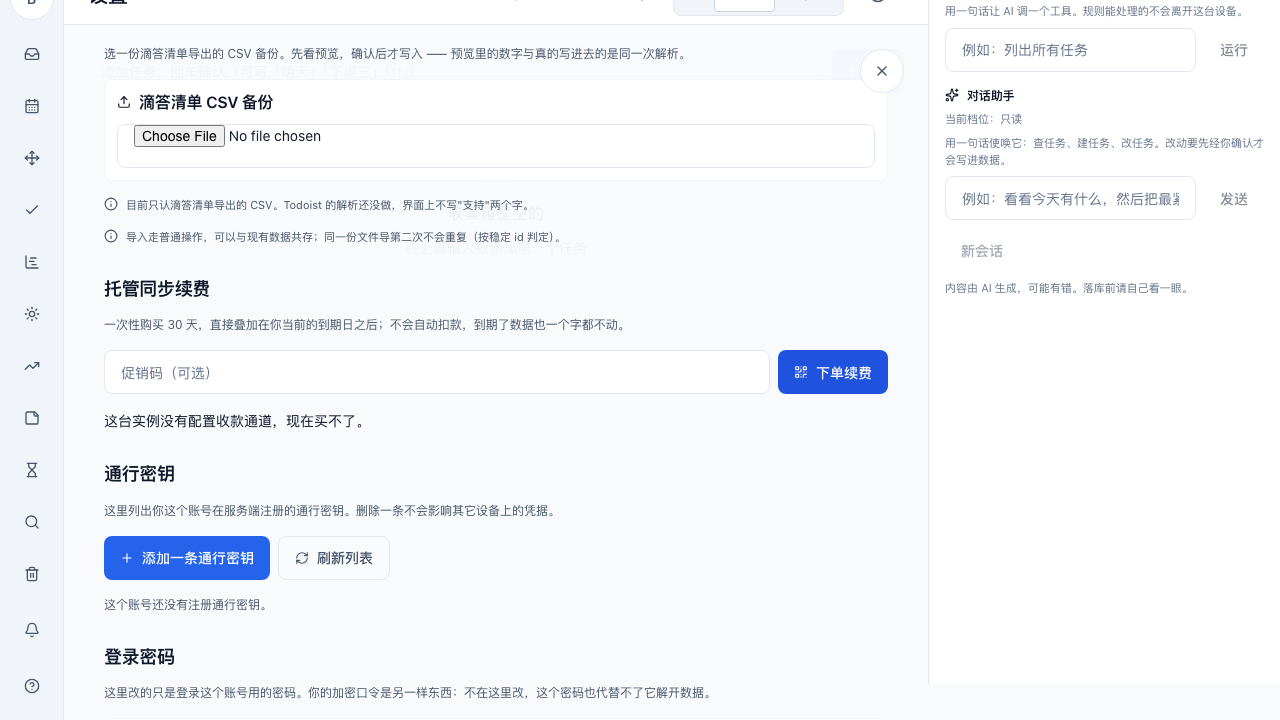
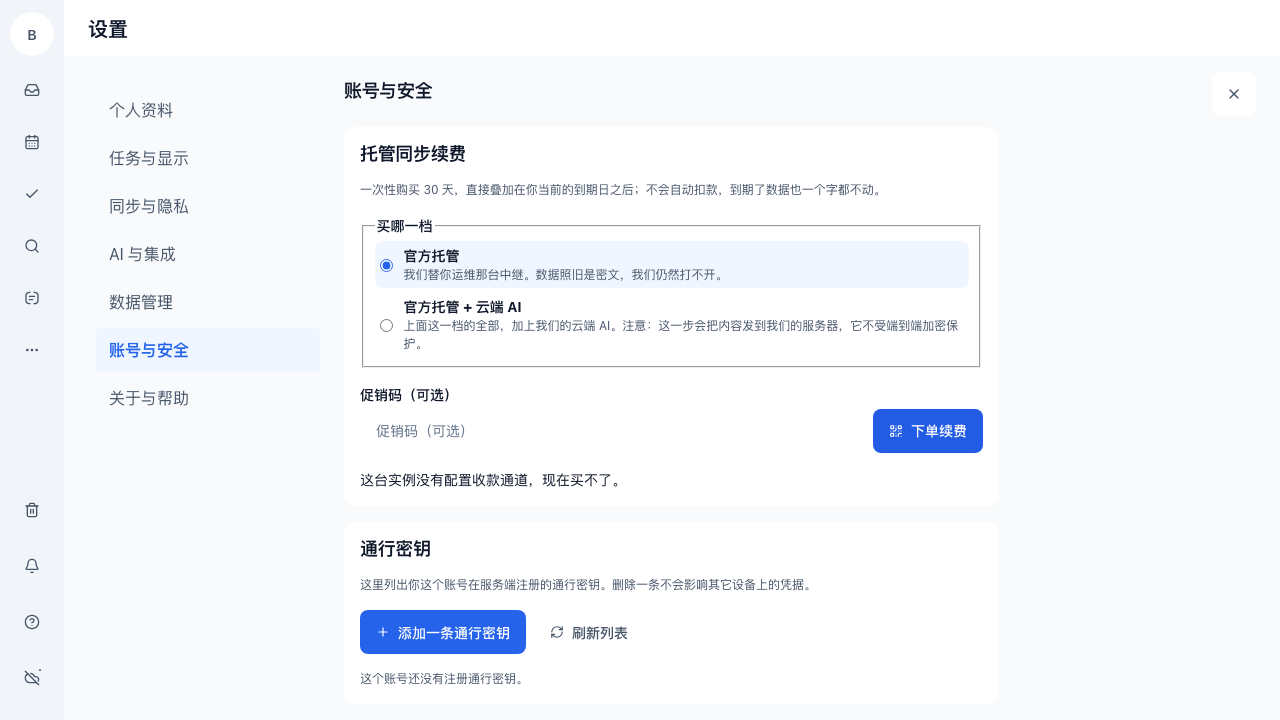
docs(¥12 档·取证与台账): 续费那五张图搬进仓（仓里跟踪的三枚原本是 10-05 没有档位的旧代），并登记一处不属于本线的整链挡路门红 B244

diff --git a/BLOCKED.md b/BLOCKED.md
@@ -11728,3 +11728,5 @@ B216 那一行进库之后，本线在新隔离载具 `.worktrees/inb-t10`（`gi
       ⚠ 分母边界要写清：`git ls-tree -r -l HEAD` 里 `apps/web/evidence` **仍占 230.9 MB**（全仓 HEAD 跟踪文件合计 761.7 MB）——那是**当前还在用的取证件**，本预案**不动它**；动它才是真的丢东西。③ **预案（未获授权，一行都不执行）**：a) 先 `git clone --mirror` 出一份**排演副本**并留作回退点；b) 在副本上 `git filter-repo --path .pnpm-store --path research/standalone/.npm-cache --invert-paths`（工具**本机未装**：`git-filter-repo` 不在 PATH、python 模块也没有 ⇒ 落地前要先装，这是一次独立决定）；c) 校验**当前那一屏没变**：改写前后 `git rev-parse HEAD^{tree}` 必须逐字相同（两枚被剔前缀在 HEAD 里都不存在 ⇒ 这一点是**可证的**，不是祈祷），并 `git diff --stat <旧> <新>` 只允许出现被剔路径；d) 在副本上重跑 `git bundle create` 量出真实体积（本追记的 317.5 MB 是**按对象磁盘尺寸直接相减的估算**，delta 重算后会有偏差）；e) 才谈 `--force-with-lease` 推两枚远端。🔴 **爆炸半径**：双端强推会重写所有下游克隆的 `main`（含并行会话那几棵检出，它们必须重新克隆或硬重置），而**已应用迁移与 schema 一行都不碰** —— 这一条按仓规**只能负责人拍**，本会话不自决。④ **同趟顺手否证的第二条便宜路**：`git ls-remote gitee` 只回 `HEAD` + `refs/heads/main` **两行** ⇒ gitee 上**没有**陈旧分支或标签在占体积，"删远端废弃 ref"这条不存在。⑤ 本条只动 `BLOCKED.md` 一枚（纯追加：现量 `git diff --numstat -- BLOCKED.md` 删列 **0**）；判卷口径零处、AC 已勾数现量 **0**。
 
 🔴 **B243 追记二（2026-10-21 01:0x，本会话 · 这枚配额会咬下一位：`main` 的**上游配置指向 gitee**，所以不带 refspec 的 `git push` 现在必然失败）**：写前先跑 `date`（本机 01:07）。① **现量**：`git for-each-ref --format='%(refname:short) → %(upstream:short) %(upstream:track)' refs/heads/main` ⇒ **`main → gitee/main [ahead 5]`**；`git config --get push.default` 与 `git config --get branch.main.pushRemote` 都回**空** ⇒ `git push` 不带参数就是推 gitee。② **后果要说白**：下一位在这里敲 `git push` 会拿到 `[remote rejected] … pre-receive hook declined`，而那句钩子话术**没写"体积"**（体积是上一行 `Repo size: … exceeds quota`），只看最后一行会**误判成"分支被保护了"或"网络/权限坏了"**，最坏的绕法是 `--force` —— 那既治不了体积（配额是**服务端算总量**，不是非快进），又会把两枚远端的历史一起重写。⇒ **规矩**：这一格失败先读 `remote:` 那几行的**全文**，别按最后一行归因。③ **正确的命令形状（本会话就是这么推上去的）**：显式点名远端与 refspec —— `git push origin refs/heads/main:refs/heads/main`（过），`git push gitee refs/heads/main:refs/heads/main`（被配额拒）。④ **我没有顺手改的那两样，以及为什么**：把上游改成 `origin/main`、或设 `branch.main.pushRemote=origin`，都能让 `git push` 恢复正常，但**改 git config 不在本会话被授权的范围里**（仓规：不擅自改配置），而且它会改变**别人在这棵树上的推送目的地** —— 那正是"可见范围"这一格。要改只需一句授权，命令现成：`git config branch.main.pushRemote origin`（回退：`git config --unset branch.main.pushRemote`）。⑤ 本条只动 `BLOCKED.md` 一枚（纯追加：现量 `git diff --numstat -- BLOCKED.md` 删列 **0**）；判卷口径零处、git config 零处、AC 已勾数现量 **0**。
+
+🟡 **B244（2026-10-21 10:3x，本会话 · `check:image-license` 在干净检出上就是红的，红点不在本线；顺带量出这把尺里有一档对**顺序**敏感，会指一辆不存在的东西）**：写前先跑 `date`（本机 10:38）。① **原文证据**（`pnpm check:image-license`，`rc=1`，首行逐字「镜像依赖快照已经不代表当下的声明（3 处失真）」）：三行分别是 `server/package.json 里**能改变那棵树**的那几档 … 变了`、`@heyta/ 工作区包的清单 变了`、`server/package-lock.json（镜像那棵树的钉子） 变了`。② **它挡的是所有人**：这道门在 `pnpm check` 那条大链里，位置现量（不要把步数抄进文档）`node -e "const s=require('./package.json').scripts.check.split('&&');console.log(s.length, s.findIndex(x=>x.includes('check:image-license')))"` ⇒ 任何线跑整链都会停在它上面。③ **归因（分母是逐枚输入取的，不是按大类取的）**：快照 `server/image-npm-tree.json` 最后一次被写是 `d0bd83b36`（10-17 22:34，自托管线那笔「补第四枚 tgz」）；此后动过这三枚输入的提交现量 `git log --since=2026-10-18 --format='%h %ad %s' --date=format:'%m-%d' -- server/image-npm-tree.json server/package.json server/package-lock.json 'packages/*/package.json'` ⇒ **7 枚，全部是中央认证线**（`7281d1388` 13:08 起，到 `5d58ed332` 10-20 07:43）；本线 10-21 那几笔（`c7fb1a64f`/`b0d13e34d` 之间那一族）对这三枚输入的命中数 **0**（同一趟 `git show --stat $c -- <那三枚>` 逐枚回空）。④ **不是别人在飞的脏件造成的**：`git status --porcelain -- server/package.json server/package-lock.json server/image-npm-tree.json` 回**空** ⇒ 干净检出同样红。⑤ **本线为什么不修，按门自己写的分岔走**：它的提示把修法分两种情形 —— ①「只有 `server/package-lock.json` 变了」⇒ 直接重跑 `node research/tools/gen-image-npm-tree.mjs`（离线，读的就是这把锁）；②「`server/package.json` / 三枚本地包 / Dockerfile 的装法变了」⇒ **锁本身过期了，重跑生成器不会造出新锁**，必须先跑一次 `pnpm verify:selfhost-stack`、从镜像里取 `/app/package-lock.json` 落成提交物。本次命中的是 **②**（`serverInstallInputSha256` 这一档也变了，而那档走 `research/tools/image-install-shape.mjs:219` 的 `.sort()`，对顺序免疫 ⇒ 它是**内容**真变了）。⇒ 便宜的这条路被门自己否证；剩下那条要 docker build、产的是**自托管线的提交物**，而且此刻别人正在写这棵树 —— 由本线来重生成镜像锁＝把他们的构建输入写进我的提交，越界。**登记，不动。**⑥ 🔴 **顺带一枚探针缺陷（归自托管线，本线不改）**：那三行里「`@heyta/ 工作区包的清单 变了`」这行**指的不是任何真实失真**——现量：快照 `[inbound-core, domain, shared-schema, sync-core]`，当下 `[domain, inbound-core, shared-schema, sync-core]`（复现：`node -e` 取 `image-npm-tree.json` 的 `inputs.packedWorkspaceDeps` 与 `server/package.json` 里 `@heyta/` 前缀的 `Object.keys(dependencies)` 对照）⇒ **同一集合，只是顺序不同**，顺序在 `7281d1388` 换的。成因有两处，缺一不红：`gen-image-npm-tree.mjs:153` 的 `packedNames` 直接取 `Object.keys(deps)`（**不排序**），而 `:240` 的比较是 `JSON.stringify(got[key]) !== JSON.stringify(INPUTS_BASE[key])`（**对数组顺序敏感**）。⚠ 同一把尺里另一档免疫顺序（⑤ 那句 `.sort()`）⇒ **两档的敏感性不一致**，而这行的文案写的是「清单变了」，读的人会去找第 5 枚 `@heyta/` 包，它不存在。这一档确实有活职能（**剔包**只有它能抓到：逐包哈希那一圈只遍历当下存在的 `rel`，少一枚不会红），所以修法不是删断言，是**两侧排序后再比**（`packedPackageJsonSha256` 那圈照旧盖内容）。⑦ 归谁：**自托管线**（②那条 rebuild 与那枚顺序敏感比较）；本线只在交接书里把「整链现在停在 `check:image-license`」写清，免得下一位以为是自己造的。⑧ 本条只动 `BLOCKED.md` 一枚（纯追加：现量 `git diff --numstat -- BLOCKED.md` 删列 **0**）；判卷口径零处、镜像输入零处、AC 已勾数现量 **0**。

diff --git a/PROGRESS.md b/PROGRESS.md
@@ -7132,3 +7132,12 @@ python3 research/tools/verify-inbound-check-chain.py --logs <dir> --from 100 --t
     ③ 现量：两枚台架 `pnpm check:checkout-tier-gates`／`check:mobile-renew-shape` 均 **rc=0**（5 臂 + 4 臂各被具名用例抓到），改前后 `stat -f "%m"` 两枚被碰的文件**逐字相同**，`git status --short server/src apps/mobile/src` 为空。分母现量：`grep -c utimesSync scripts/mutate-*.mjs` ⇒ 本线两枚各 4，同族的 `mutate-calendar-event-source.mjs`／`mutate-op-log-semantics.mjs` 各 **0**（前者也动 `apps/mobile/src/screens/CalendarScreen.tsx`）—— 那一半归那两条线补一行，本线**不代改**（登记在 #513 ⑷ 而不是顺手替别人提交）。
     ④ 追加环境陷阱 **#513**（"还原字节 ≠ 还原状态"，含 (b) 那条毫秒/纳秒的坑），号段索引那一行由 `511–512` 扩为 `511–513`。
     ⑤ 本条动 `scripts/mutate-checkout-tier-gates.mjs`、`scripts/mutate-mobile-renew-shape.mjs`、`docs/reference/environment-traps.md`、`docs/agents/environment-traps-index.md`、`PROGRESS.md` 五枚。同树现量：`check:docs`／`check:md-tables`／`check:doc-citations`／`check:gate-wiring` **rc=0**。AC 已勾数现量 **0**（`grep -rn "^- \[x\]" docs/plans/inbound-automation*.md | wc -l`）。
+
+161. 🟢 **10-21 10:2x–10:4x（续费那五张图搬进仓，顺手量出一处"按文件名会读到旧产物"的错位与一处不属于本线的门红）**（写前先跑 `date`，本机 10:41）
+    ① 🔴 **错位**：套件的固定落点 `e2e/test-results/` 被 `.gitignore` 里 `test-results/` 那条挡着 ⇒ **干净检出里根本没有本轮的图**；而仓里跟踪的那三枚同名图是 **10-05 那一代**（写它们的提交 `846862ad5`，blob `ea7cfb923f51…`），屏上**还没有档位选择**。⇒ 谁按文件名去读，读到的是旧产物而不自知。现在三枚换代、两枚新增（`renew-panel-tiers.png`／`renew-panel-downgrade.png`），五枚与 `e2e/test-results/` 的原件**逐字节相同**（现量：两侧各跑 `shasum -a256 renew-panel-*.png` 对照；本枚 `renew-panel-order.png` 盘上哈希 `04707ef73c24…`）。
+    ② **人眼复核（§6.2 规定一）新增那两枚**：`-tiers` 里两档 radio 都在、选中的是「官方托管 + 云端 AI」，屏上金额是服务端回来的「应付金额 4.00 CNY」加支付链接；`-downgrade` 里选中的是「官方托管」，屏上是拒降档那句「这一档不包含你当前这一档的全部能力，服务端没有下单 —— 先让当前这一档到期，或者继续按它续费。」⇒ 闸门 ②′ 的文案**第一次有图**（此前只有断言）。
+    ③ 交接书 §10.2 加「那五张截图在不在仓里」那一格，§10.3 加第 7、8 条。第 7 条把"为什么不能拿手边那张旧图交差"钉成现量：`grep -c "renew-tier-hostedAi" apps/mobile/ios/build/Build/Products/Release-iphonesimulator/Heyta.app/main.jsbundle` 回 **0** ⇒ 那枚 10-20 的包里根本没有档位选择，用它拍图＝拿旧产物冒充当前产物。**移动截图腿仍欠**（要 `pnpm build:ios` + 模拟器 + :3000 TEST_MODE 服务端，且此刻同树有别线在写，本条不抢）。
+    ④ 第 8 条＝量到但**归 UX 线、本线不代改**的一类：未同意出境时被本机闸门拦下的读请求，界面上写成红字「没能加载通行密钥列表。」，而真实原因是**根本没发那个请求**。证据是一对只差一个变量的图（`-no-channel` 那块是正常空态「这个账号还没有注册通行密钥。」／`-no-consent` 同一块是那句红字）。同类键名与枚举命令写在交接书里 —— 报修时按**一类**报，别只修通行密钥那一处。
+    ⑤ 🔴 一处**不是本线造的**门红，登记为 **B244** 而不是顺手修：`pnpm check:image-license` **rc=1**，且**干净检出同样红**（三枚输入 `git status --porcelain -- server/package.json server/package-lock.json server/image-npm-tree.json` 回空）。归因分母逐枚取 ⇒ 10-18 以来动过那三枚输入的 **7 枚提交全在中央认证线**（`7281d1388`…`5d58ed332`），本线命中 **0**。便宜那条路（重跑生成器）被门自己写的分岔否证：本次命中的是情形②（`serverInstallInputSha256` 也变了），要 `pnpm verify:selfhost-stack` 从镜像里取锁 ⇒ 那是**别线的提交物**，不替他们生成。顺带量出这把尺有一档对**顺序**敏感：「工作区包的清单 变了」那行讲的是同一集合换了顺序，读它会去找不存在的第 5 枚 `@heyta/` 包（细节与修法在 B244 ⑥）。
+    ⑥ 现量读数：`check:docs`／`check:md-tables`／`check:doc-citations`／`check:gate-wiring` 四道**串行**跑，各 **rc=0**（`for g in …; do pnpm "$g"; done` 逐条取 rc）。
+    ⑦ 本条动 `apps/web/evidence/` 五枚 png、`docs/plans/subscription-handoff.md`、`BLOCKED.md`、`PROGRESS.md`。同树他人会话在飞的脏件（根 `package.json`、`docs/agents/commands.md`、`apps/web/src/**`、`packages/i18n/**`、`e2e/tests/collab-journey.spec.ts`、`scripts/check-collab-carrier.mjs` 等）**一枚不 stage**，提交带命名 pathspec。AC 已勾数现量 **0**（`grep -rn "^- \[x\]" docs/plans/inbound-automation*.md | wc -l`）。

diff --git a/docs/plans/subscription-handoff.md b/docs/plans/subscription-handoff.md
@@ -194,6 +194,7 @@ AI 文件 import `@heyta/i18n`，所以 **`packages/i18n` 必须同一个提交*
 | 真浏览器判据（**只有 web 那一枚**） | ✅ `e2e/tests/renew-panel.spec.ts` 五条（档位、换档清旧单、拒降档、503、只用本机零请求），且每条都按 §6.2 规定一第 3 条抓 `console`／`pageerror`／非 2xx | `cd e2e && npx playwright test tests/renew-panel.spec.ts` |
 | 🔴 **移动端那枚档位选择的证据到哪一步** | ⚠ **只有形状判据，没有截图腿**。`apps/mobile/tests/renew-entry.spec.ts` 钉的是源码形状（档位取自 `CHECKOUT_TIERS.map`、不写死 priceId、屏上不写 `¥`/`$` 金额、同意闸门排在下单之前），行为那一半在 `packages/app-host/tests/checkout.spec.ts`。形状断言自己的牙已经落成件：`pnpm check:mobile-renew-shape` 四条臂各注入一次真实坏法。所以「移动壳有档位选择」这句话现在**只到"接线在 + 判据能红"，不到"画出来了"** —— §6.2 规定一要的图一张都没有（现量分母：`find . -iname "*renew*" -not -path "*/node_modules/*"` 里**全部**是 web 侧的 png） | `pnpm check:mobile-renew-shape`；`pnpm --filter @heyta/mobile test tests/renew-entry.spec.ts` |
 | 两道闸门有没有**能复跑的反臂** | ✅ `scripts/mutate-checkout-tier-gates.mjs`：逐臂把 `checkout.routes.ts` 改坏，要求具名用例变红；已进 `pnpm check` 链（不进链就是孤儿，`check:gate-wiring` 判这条） | `pnpm check:checkout-tier-gates` |
+| 🔴 **那五张截图在不在仓里**（干净检出看不看得到） | ✅ 2026-10-21 起在 `apps/web/evidence/`（五枚，与 `e2e/test-results/` 的原件逐字节相同）。⚠ 这一格此前是**空的**：套件的固定落点 `e2e/test-results/` 被 `.gitignore` 的 `test-results/` 那条挡着，而仓里跟踪的那三枚同名图是 **10-05 那一代 —— 屏上根本没有档位选择**，谁按文件名去读都会读到旧产物。现在两边都是 10-21 这一代 | `shasum -a256 apps/web/evidence/renew-panel-*.png`（五枚）与 `e2e/test-results/` 同名件对照 |
 
 ⚠ 那套臂里 C3 钉的是**默认值**那一支（`options.managedAiConfigured ?? false`）。
 `billing-checkout.routes.spec.ts` 的 `buildApp` 自带 `managedAiConfigured: true`，所以**每一条**
@@ -228,6 +229,17 @@ AI 文件 import `@heyta/i18n`，所以 **`packages/i18n` 必须同一个提交*
    [`docs/agents/ui-acceptance.md`](../agents/ui-acceptance.md) 规定一第 1、2、4 条与
    [`docs/plans/product-ux-optimization.md`](product-ux-optimization.md) 的设备腿台账；
    ⚠ 启动必须带 `HEYTA_NO_FOCUS=1`，不许抢前台）。归我方，工作量在设备那条腿而不是代码。
+   ⚠ 现量（为什么不能拿手边那张旧图交差）：`grep -c "renew-tier-hostedAi" apps/mobile/ios/build/Build/Products/Release-iphonesimulator/Heyta.app/main.jsbundle` 回 **0** —— 那枚 10-20 的包**里根本没有档位选择**，用它拍图就是拿旧产物冒充当前产物。
+8. **未同意出境时，被本机闸门拦下的读请求在界面上写成"没能加载"** —— 归 UX 线，本线只登记不代改。
+   证据是一对**只差一个变量**的图（同一套件的 `accepted` 与 `local-only` 两条用例）：
+   `apps/web/evidence/renew-panel-no-channel.png` 里通行密钥那块是正常的空态「这个账号还没有注册通行密钥。」，
+   而 `apps/web/evidence/renew-panel-no-consent.png` 里同一块变成红字「没能加载通行密钥列表。」——
+   真实原因是**根本没发那个请求**（闸门在调用之前，见 `apps/web/src/features/privacy/consent-gate.ts`
+   开头那句"未同意时底层次数必须是 0"，现量 `grep -n "底层次数必须是 0" apps/web/src/features/privacy/consent-gate.ts`），
+   可界面说的是"加载失败"。用户读到的是"这东西坏了"，不是"我还没允许它联网问"。
+   同一类还有几处（**别只修通行密钥那一处**）：`common.profile.loadFailed`、`common.emailChange.loadFailed`、
+   `web.inbox.error` —— 现量：`grep -rln "networkAllowed" apps/web/src/features` 逐枚判它有没有区分"没问"与"问失败"。
+   要拍的板是文案与形状（要不要一句"还没同意，点这里去同意"的出口），不是判据口径。
 
 ### 10.4 §1–§9 里已经过期的格子（别照它们判断现状）
 
